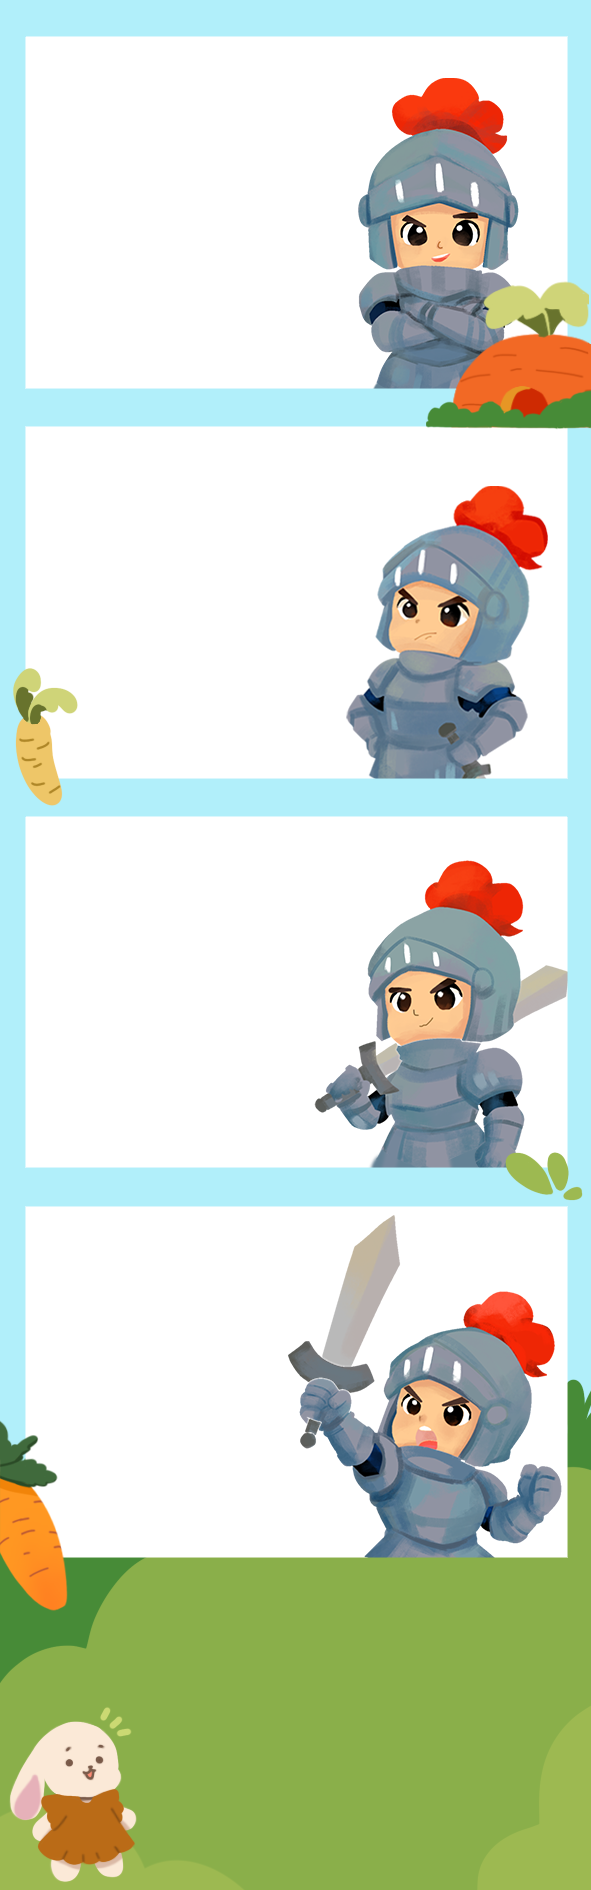
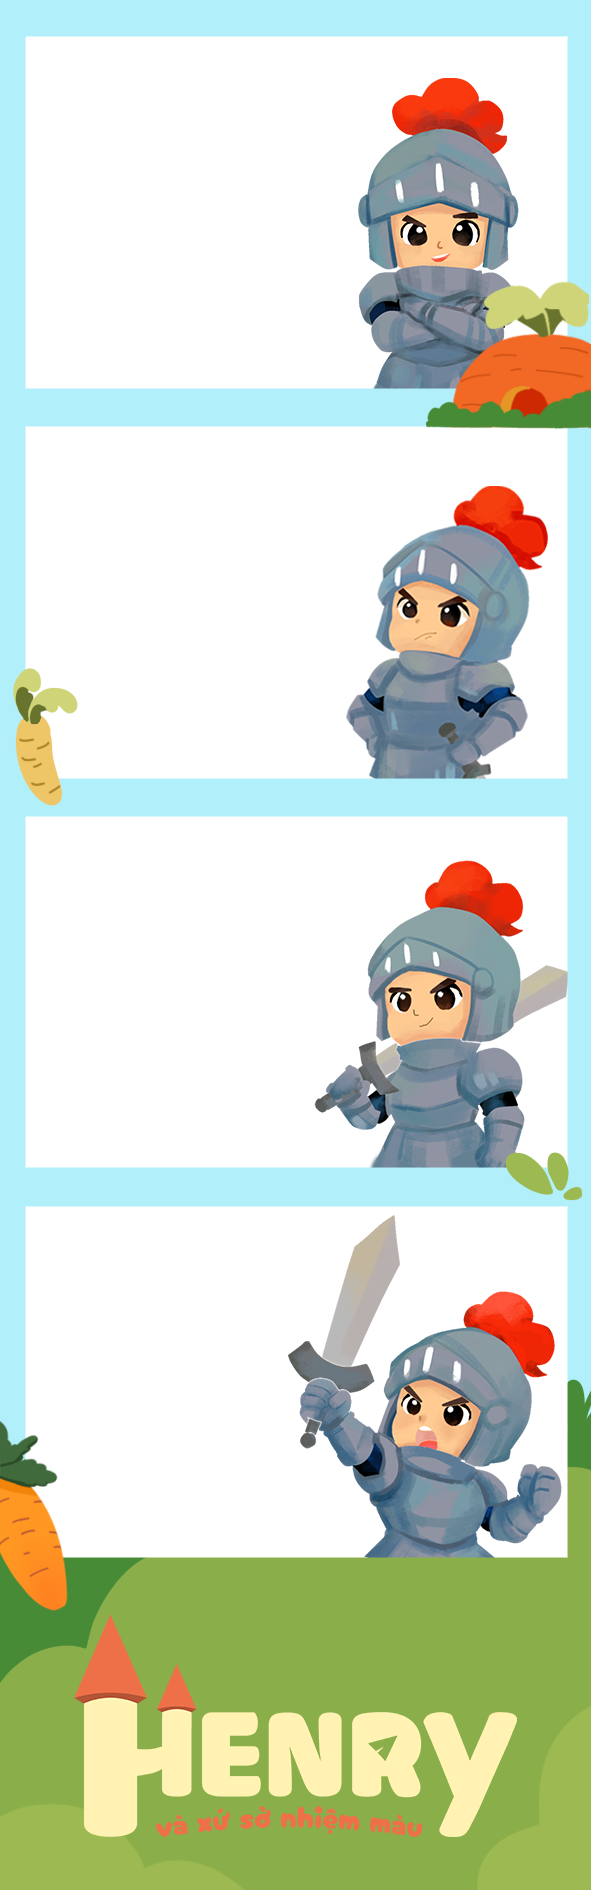
22:34

Changed region(s): [[0.0, 0.8429, 0.8832, 0.9989]]

diff --git a/static/style.css b/static/style.css
@@ -183,7 +183,7 @@ body {
     font-size: 2.2rem;
     font-weight: 800;
     letter-spacing: 2px;
-    margin-bottom: 45px;
+    margin-bottom: 80px;
     text-align: center;
     text-shadow: 2px 4px 10px rgba(0, 0, 0, 0.2);
 }
@@ -195,7 +195,7 @@ body {
     align-items: flex-start;
     width: 100%;
     max-width: 900px;
-    margin-bottom: 40px;
+    margin-bottom: 100px;
     padding: 0 20px;
 }
 
@@ -208,6 +208,7 @@ body {
 
 .guide-number {
     font-size: 2rem;
+    font-family: 'CCMM-Cute', sans-serif;
     font-weight: 900;
     color: #ffffff;
     margin-bottom: 12px;
@@ -238,7 +239,7 @@ body {
     color: #ffffff;
     font-size: 1.15rem;
     font-weight: 700;
-    margin-bottom: 15px;
+    margin-bottom: 35px;
     letter-spacing: 1px;
 }
 
@@ -362,11 +363,35 @@ body.theme-capture.bg-knight { background-color: #caf5f8 !important; background-
     to { box-shadow: 0 0 0 4px rgba(255, 255, 255, 0.35), 0 0 24px rgba(255, 255, 255, 0.45), 0 18px 36px rgba(209, 107, 134, 0.28); }
 }
 
-.layout-preview-strip { position: relative; width: fit-content; max-width: 125px; height: auto; display: flex; align-items: center; justify-content: center; background: transparent; border-radius: 12px; overflow: hidden; }
-.frame-img-preview { width: 100%; height: auto; max-height: 100%; max-width: 100%; object-fit: contain; display: block; position: relative; z-index: 2; }
-.slot-overlay-preview { position: absolute; background: rgba(0, 0, 0, 0.95); border-radius: 6px; z-index: 1; pointer-events: none; }
-.layout-name-overlay { position: absolute; bottom: 0; left: 0; width: 100%; background: linear-gradient(to top, rgba(0,0,0,0.7), transparent); color: white; padding: 18px 10px 10px; font-weight: 600; text-align: center; font-size: 0.95rem; z-index: 3; }
-
+.layout-preview-strip { 
+    position: relative; 
+    width: fit-content; 
+    max-width: 120px; 
+    height: auto; 
+    display: flex; 
+    align-items: center; 
+    justify-content: center; 
+    background: transparent; 
+    border-radius: 12px; 
+    overflow: hidden; 
+}
+.frame-img-preview { 
+    width: 100%; 
+    height: auto; 
+    max-height: 100%; 
+    max-width: 100%; 
+    object-fit: contain; 
+    display: block; 
+    position: relative; 
+    z-index: 2; 
+}
+.slot-overlay-preview { 
+    position: absolute; 
+    background: rgba(255, 255, 255, 0.95); 
+    border-radius: 6px; 
+    z-index: 1; 
+    pointer-events: none; 
+}
 /* --- LƯỚI CHỌN ẢNH (SELECTION GRID) --- */
 .selection-grid { display: grid; grid-template-columns: repeat(3, 1fr); gap: 12px; margin-bottom: 25px; max-width: 500px; padding: 10px 15px; max-height: 48vh; overflow-y: auto; width: 100%; }
 .selection-grid::-webkit-scrollbar { width: 6px; }
@@ -447,7 +472,7 @@ footer {
 
 /* ==================== HỆ THỐNG ẢNH NỀN TOÀN MÀN HÌNH (RESKIN) ==================== */
 body.theme-welcome {
-    background-image: url('image/backgroud-1/backgroud-1.png') !important;
+    background-image: url('image/backgroud-1/background-1.png') !important;
     background-size: cover;
     background-position: center;
     background-repeat: no-repeat;
@@ -608,4 +633,18 @@ body.theme-final {
     text-shadow: 1px 1px 2px rgba(255, 255, 255, 0.6); /* Đổ bóng sáng giúp chữ cực kỳ rõ nét trên nền ảnh */
     margin-top: 15px;
     white-space: nowrap;
+}
+/* --- ĐỊNH DẠNG CHO ẢNH LOGO TYPO MỚI --- */
+.typo-logo-img {
+    width: 100%;
+    max-width: 790px; /* Kích thước tối đa của logo ở trang đầu */
+    height: auto;
+    margin: -200px 0 -400px 0;
+    object-fit: contain;
+    z-index: 2;
+}
+/* Kích thước riêng cho logo ở trang cảm ơn (to hơn một chút) */
+.thanks-logo-img {
+    max-width: 500px; 
+    margin-bottom: 10px;
 }

diff --git a/templates/index.html b/templates/index.html
@@ -14,7 +14,7 @@
         
         <div id="screen-welcome" class="screen active">
             <div class="title-group">
-                <h1 class="typo-title">TYPO</h1>
+                <img src="{{ url_for('static', filename='image/typo.png') }}" alt="TYPO Logo" class="typo-logo-img">
             </div>
             <p class="welcome-text">
                 Chào mừng cậu đến với Xứ sở nhiệm màu, nơi những điều kỳ diệu đang chờ được khám phá!<br>
@@ -130,7 +130,7 @@
 
         <div id="screen-thanks" class="screen">
             <div class="thanks-box">
-                <h1 class="thanks-title">TYPO</h1>
+                <img src="{{ url_for('static', filename='image/typo.png') }}" alt="TYPO Logo" class="typo-logo-img thanks-logo-img">
                 <p class="thanks-subtitle">
                     CẢM ƠN CẬU VÌ NHỮNG KỶ NIỆM THẬT TUYỆT VỜI TẠI XỨ SỞ NHIỆM MÀU!<br>
                     HÃY TIẾP TỤC NHỮNG CHUYẾN PHIÊU LƯU KHÁC CÙNG NHAU NHÉ!
